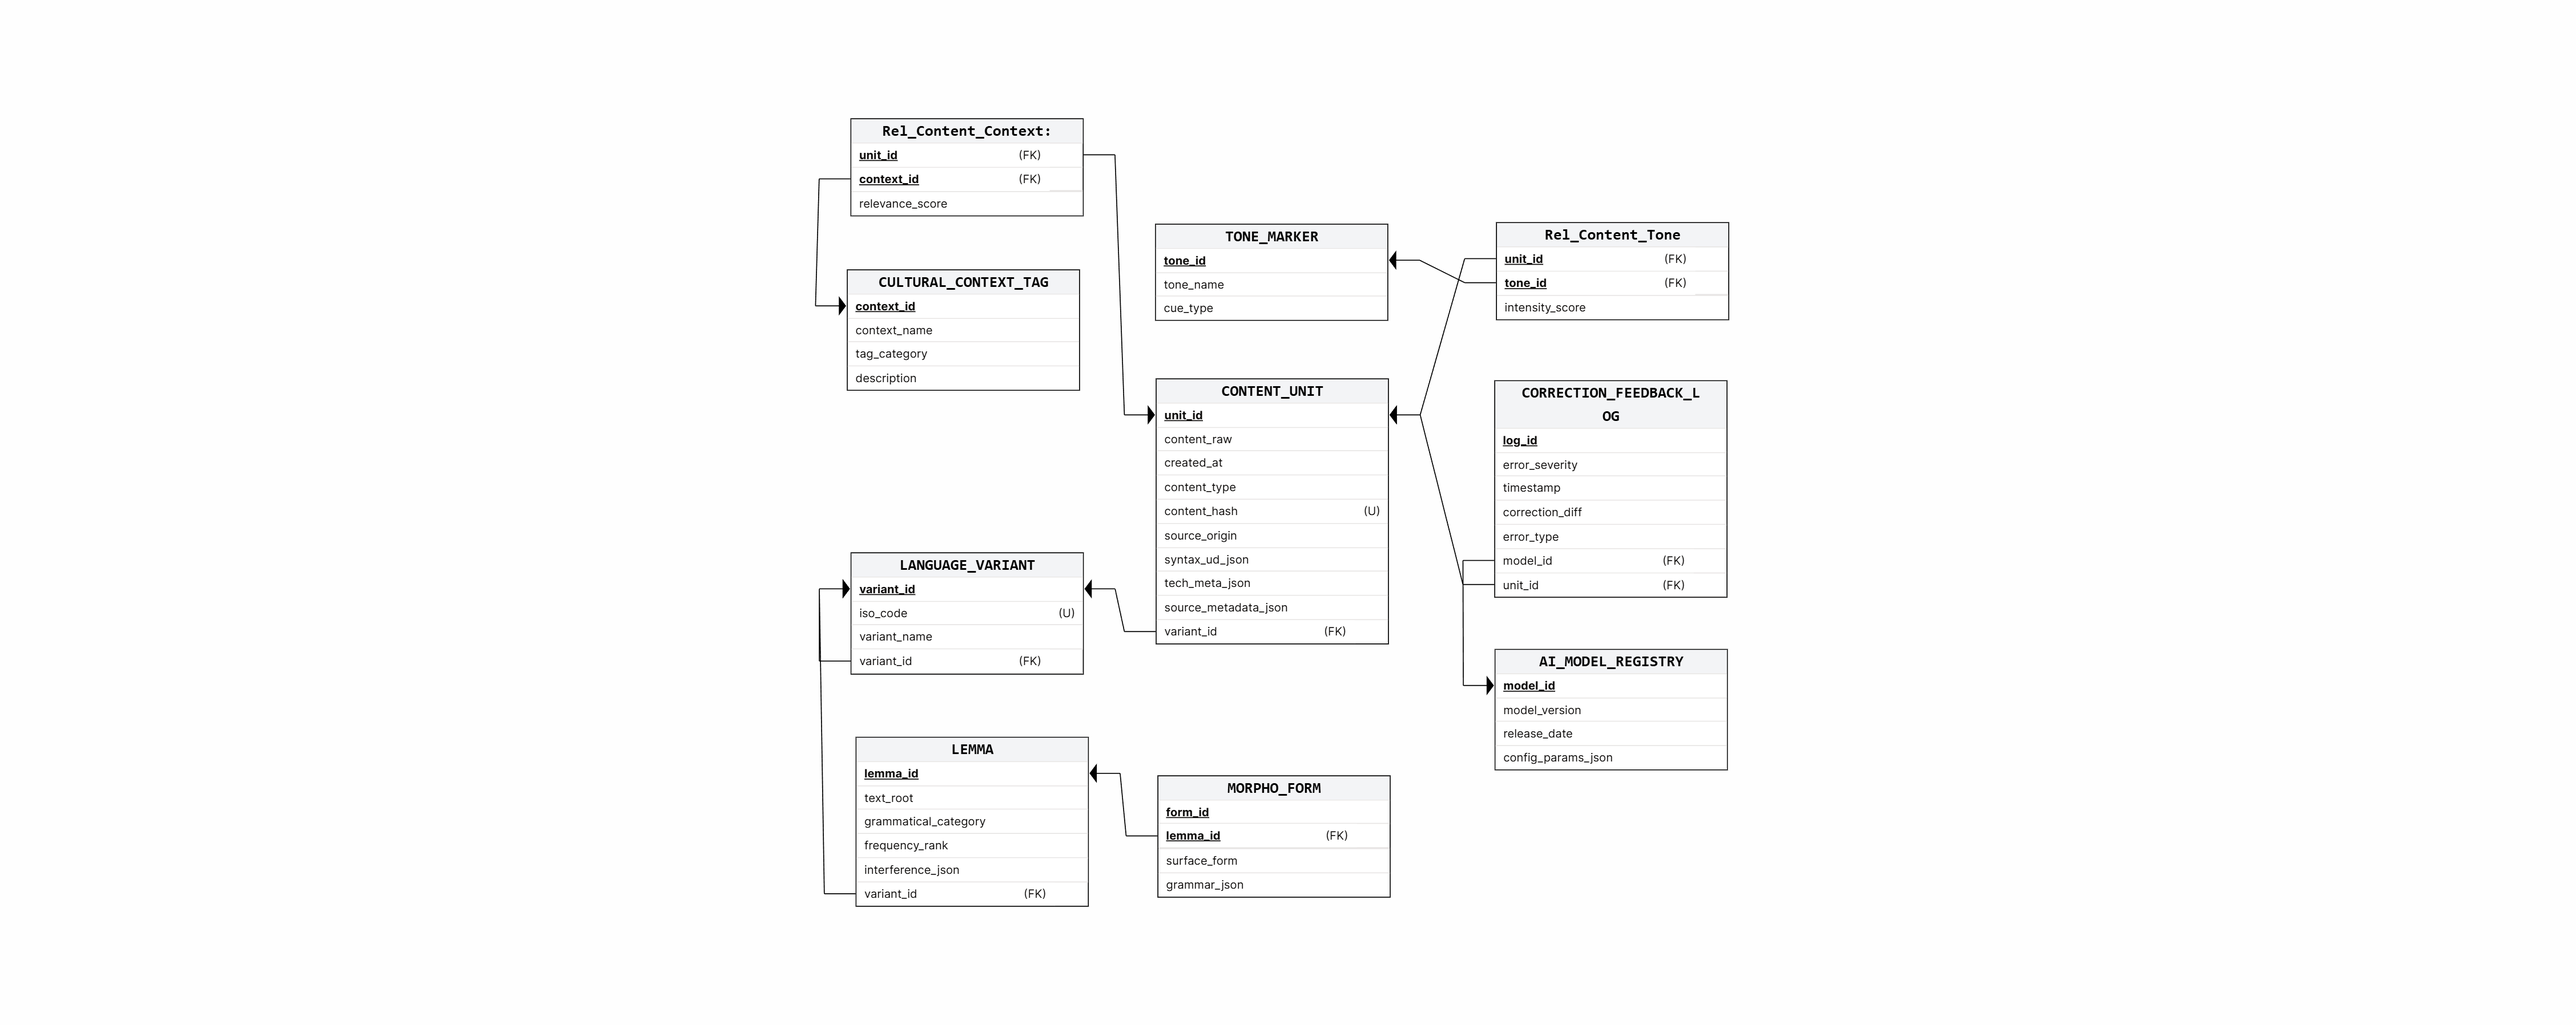
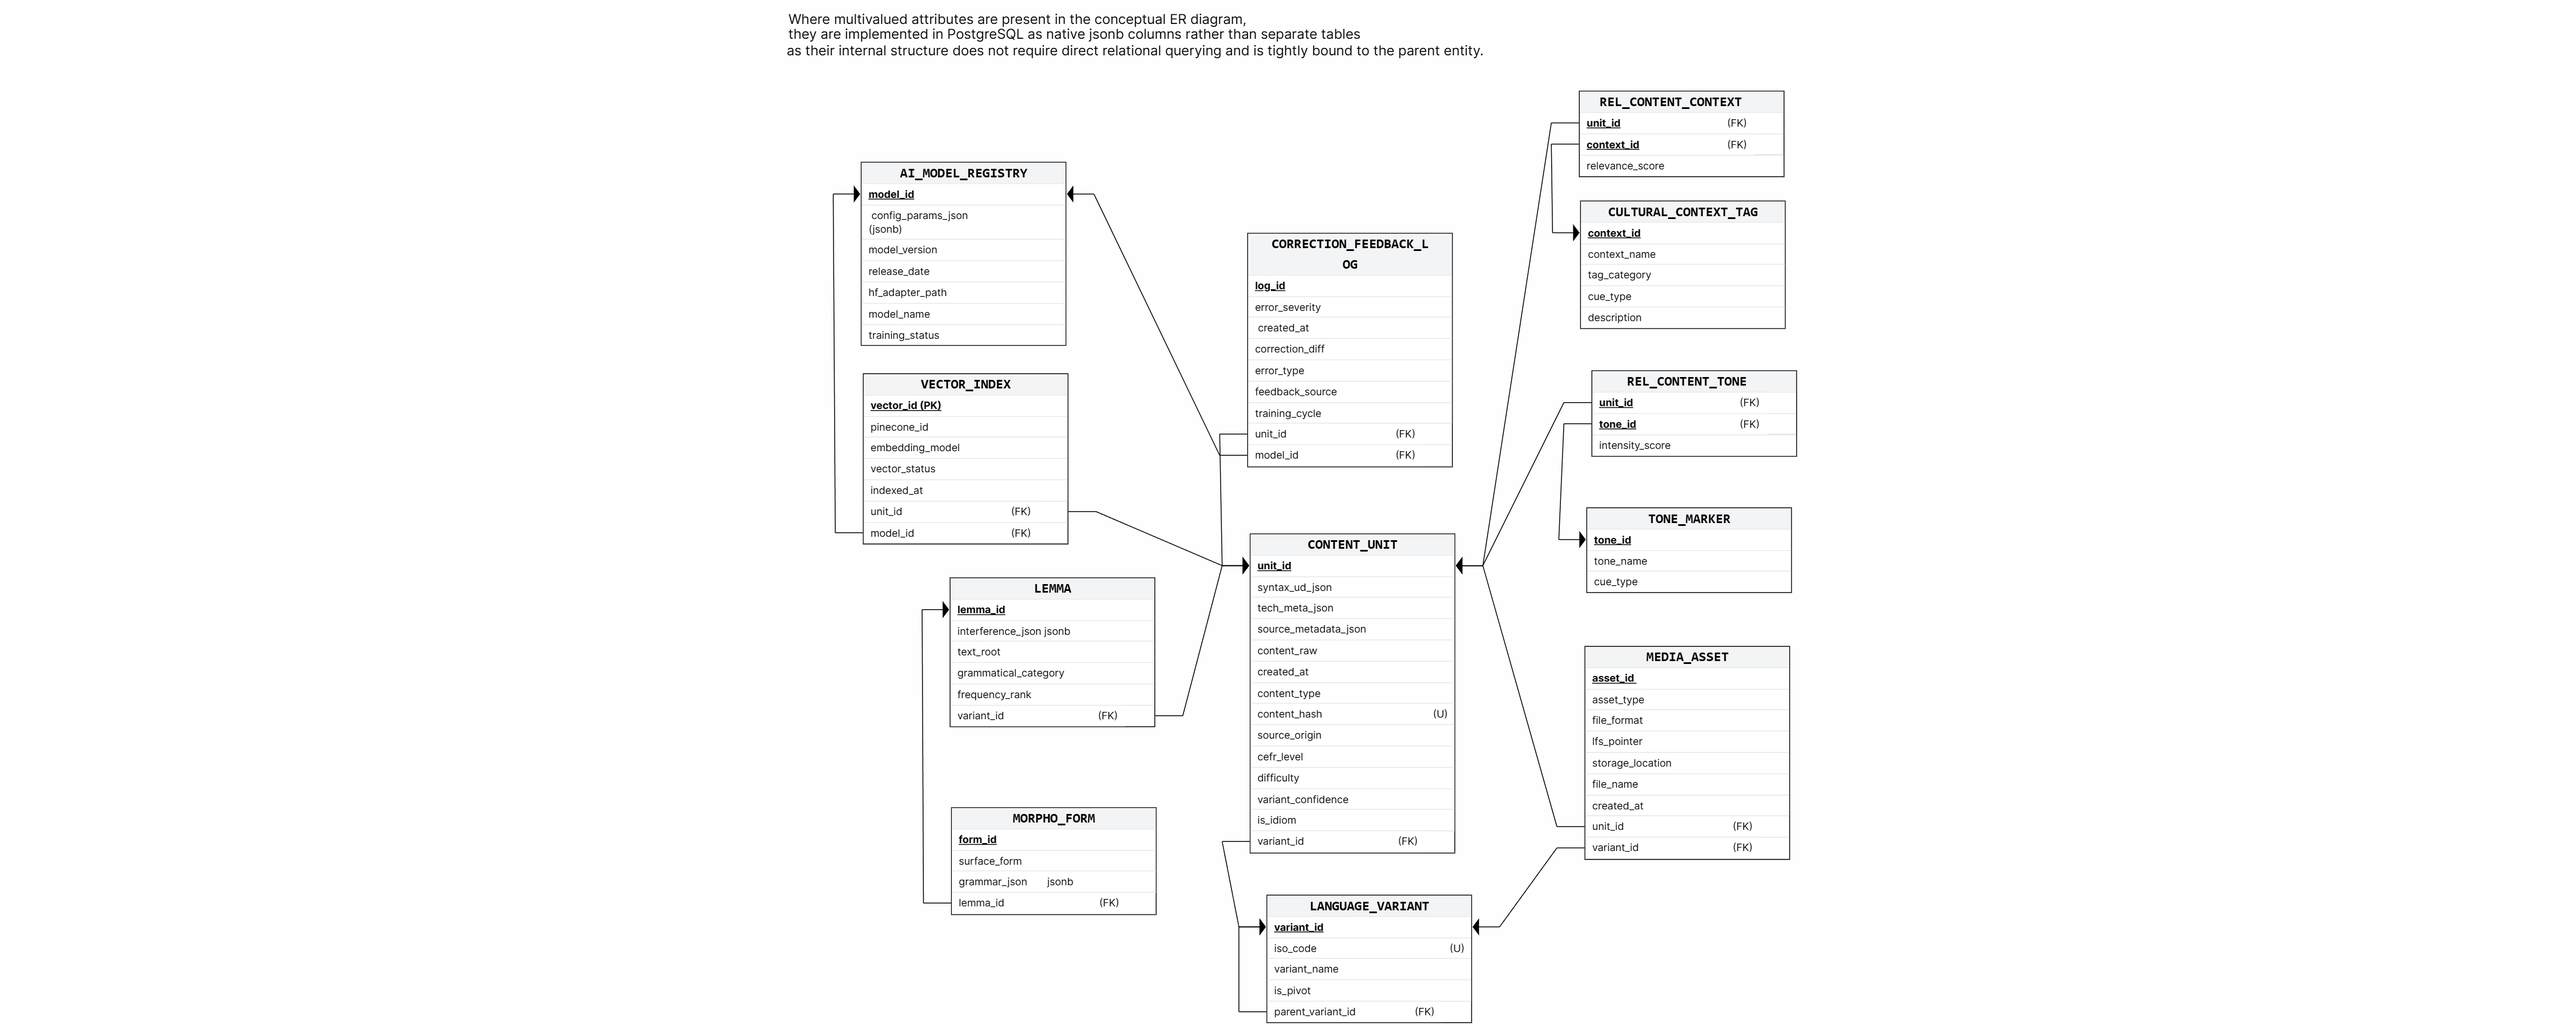
Fix: move updated ER diagrams to correct folder documentation_and_pipeline

diff --git a/DOCUMENTATION.md b/DOCUMENTATION.md
@@ -1,0 +1,2 @@
+"Update ER diagram and relational schema to v3.1 - corrected N1 N2 N3"
+

diff --git a/BUG_REPORT.md b/BUG_REPORT.md
@@ -1,0 +1,1 @@
+Update ER diagram and relational schema to v3.1 - corrected N1 N2 N3
